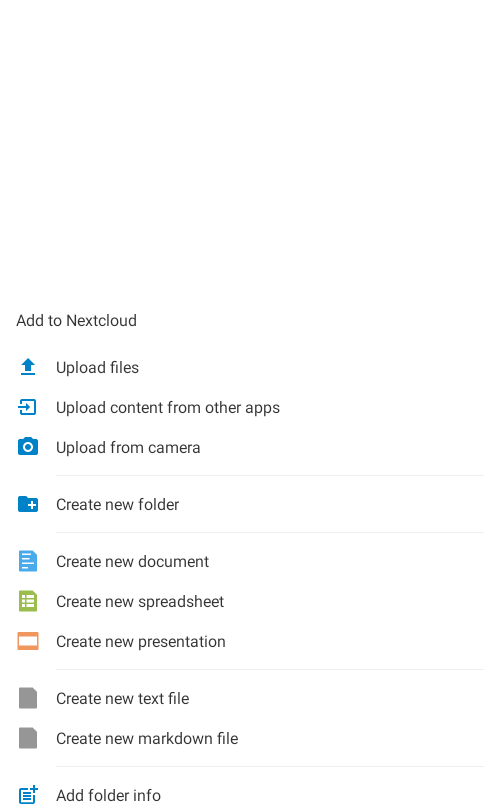
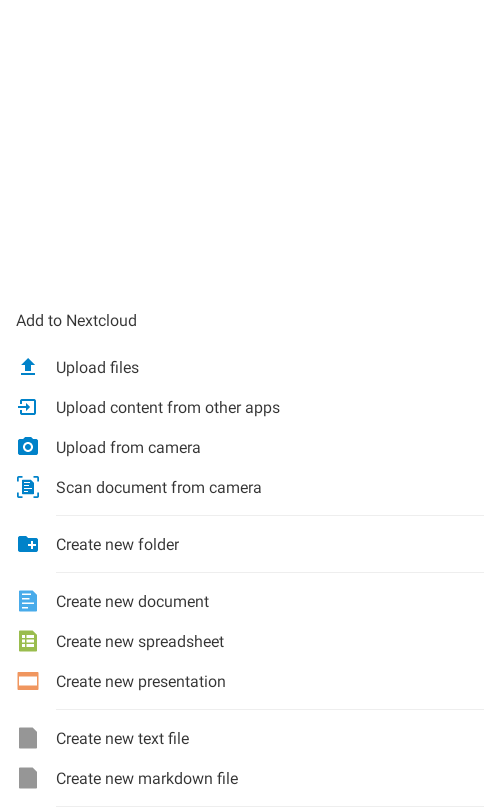
Add scan document feature

diff --git a/src/main/java/com/owncloud/android/ui/activity/AppScanActivity.kt b/src/main/java/com/owncloud/android/ui/activity/AppScanActivity.kt
@@ -1,0 +1,59 @@
+/*
+ *
+ * Nextcloud Android client application
+ *
+ * @author Tobias Kaminsky
+ * Copyright (C) 2022 Tobias Kaminsky
+ * Copyright (C) 2022 Nextcloud GmbH
+ *
+ * This program is free software: you can redistribute it and/or modify
+ * it under the terms of the GNU Affero General Public License as published by
+ * the Free Software Foundation, either version 3 of the License, or
+ * (at your option) any later version.
+ *
+ * This program is distributed in the hope that it will be useful,
+ * but WITHOUT ANY WARRANTY; without even the implied warranty of
+ * MERCHANTABILITY or FITNESS FOR A PARTICULAR PURPOSE. See the
+ * GNU Affero General Public License for more details.
+ *
+ * You should have received a copy of the GNU Affero General Public License
+ * along with this program. If not, see <https://www.gnu.org/licenses/>.
+ */
+
+package com.owncloud.android.ui.activity
+
+import android.app.Activity
+import android.content.Intent
+import android.os.Bundle
+import com.owncloud.android.R
+import com.owncloud.android.utils.DisplayUtils
+import com.zynksoftware.documentscanner.ScanActivity
+import com.zynksoftware.documentscanner.model.DocumentScannerErrorModel
+import com.zynksoftware.documentscanner.model.ScannerResults
+
+class AppScanActivity : ScanActivity() {
+    override fun onCreate(savedInstanceState: Bundle?) {
+        super.onCreate(savedInstanceState)
+        addFragmentContentLayout()
+    }
+
+    override fun onError(error: DocumentScannerErrorModel) {
+        DisplayUtils.showSnackMessage(this, R.string.error_starting_scan_doc)
+    }
+
+    override fun onSuccess(scannerResults: ScannerResults) {
+        val intent = Intent()
+
+        intent.putExtra(
+            "file",
+            scannerResults.transformedImageFile?.absolutePath ?: scannerResults.croppedImageFile?.absolutePath
+        )
+
+        setResult(Activity.RESULT_OK, intent)
+        finish()
+    }
+
+    override fun onClose() {
+        finish()
+    }
+}

diff --git a/src/main/java/com/owncloud/android/ui/helpers/FileOperationsHelper.java b/src/main/java/com/owncloud/android/ui/helpers/FileOperationsHelper.java
@@ -37,6 +37,7 @@ import android.content.Context;
 import android.content.Intent;
 import android.content.pm.PackageManager;
 import android.content.pm.ResolveInfo;
+import android.graphics.Bitmap;
 import android.net.Uri;
 import android.os.Build;
 import android.os.Environment;
@@ -68,6 +69,7 @@ import com.owncloud.android.lib.resources.shares.ShareType;
 import com.owncloud.android.lib.resources.status.OCCapability;
 import com.owncloud.android.operations.SynchronizeFileOperation;
 import com.owncloud.android.services.OperationsService;
+import com.owncloud.android.ui.activity.AppScanActivity;
 import com.owncloud.android.ui.activity.ConflictsResolveActivity;
 import com.owncloud.android.ui.activity.ExternalSiteWebView;
 import com.owncloud.android.ui.activity.FileActivity;
@@ -84,6 +86,7 @@ import com.owncloud.android.utils.DisplayUtils;
 import com.owncloud.android.utils.FileStorageUtils;
 import com.owncloud.android.utils.PermissionUtil;
 import com.owncloud.android.utils.UriUtils;
+import com.zynksoftware.documentscanner.ui.DocumentScanner;
 
 import org.greenrobot.eventbus.EventBus;
 
@@ -92,7 +95,7 @@ import java.io.File;
 import java.io.FileInputStream;
 import java.io.IOException;
 import java.io.InputStreamReader;
-import java.nio.charset.Charset;
+import java.nio.charset.StandardCharsets;
 import java.text.SimpleDateFormat;
 import java.util.ArrayList;
 import java.util.Arrays;
@@ -123,9 +126,9 @@ public class FileOperationsHelper {
     private static final String FILE_EXTENSION_WEBLOC = "webloc";
     public static final int SINGLE_LINK_SIZE = 1;
 
-    private FileActivity fileActivity;
-    private CurrentAccountProvider currentAccount;
-    private ConnectivityService connectivityService;
+    private final FileActivity fileActivity;
+    private final CurrentAccountProvider currentAccount;
+    private final ConnectivityService connectivityService;
 
     /// Identifier of operation in progress which result shouldn't be lost
     private long mWaitingForOpId = Long.MAX_VALUE;
@@ -145,7 +148,7 @@ public class FileOperationsHelper {
         InputStreamReader fr = null;
         BufferedReader br = null;
         try {
-            fr = new InputStreamReader(new FileInputStream(storagePath), Charset.forName("UTF-8"));
+            fr = new InputStreamReader(new FileInputStream(storagePath), StandardCharsets.UTF_8);
             br = new BufferedReader(fr);
 
             String line;
@@ -1069,6 +1072,19 @@ public class FileOperationsHelper {
             }
         } else {
             DisplayUtils.showSnackMessage(activity, "No Camera found");
+        }
+    }
+
+    public void scanFromCamera(Activity activity, int requestCode) {
+        DocumentScanner.Configuration configuration = new DocumentScanner.Configuration();
+        configuration.setImageType(Bitmap.CompressFormat.PNG);
+        DocumentScanner.INSTANCE.init(activity, configuration);
+
+        Intent scanIntent = new Intent(activity, AppScanActivity.class);
+        if (PermissionUtil.checkSelfPermission(activity, Manifest.permission.CAMERA)) {
+            activity.startActivityForResult(scanIntent, requestCode);
+        } else {
+            PermissionUtil.requestCameraPermission(activity);
         }
     }
 

diff --git a/src/main/java/com/owncloud/android/ui/activity/FileDisplayActivity.java b/src/main/java/com/owncloud/android/ui/activity/FileDisplayActivity.java
@@ -192,6 +192,7 @@ public class FileDisplayActivity extends FileActivity
     public static final int REQUEST_CODE__MOVE_FILES = REQUEST_CODE__LAST_SHARED + 3;
     public static final int REQUEST_CODE__COPY_FILES = REQUEST_CODE__LAST_SHARED + 4;
     public static final int REQUEST_CODE__UPLOAD_FROM_CAMERA = REQUEST_CODE__LAST_SHARED + 5;
+    public static final int REQUEST_CODE__UPLOAD_SCAN_DOC_FROM_CAMERA = REQUEST_CODE__LAST_SHARED + 6;
 
     protected static final long DELAY_TO_REQUEST_REFRESH_OPERATION_LATER = DELAY_TO_REQUEST_OPERATIONS_LATER + 350;
 
@@ -916,6 +917,35 @@ public class FileDisplayActivity extends FileActivity
                     }
                 }
             }, new String[]{FileOperationsHelper.createImageFile(getActivity()).getAbsolutePath()}).execute();
+        } else if (requestCode == REQUEST_CODE__UPLOAD_SCAN_DOC_FROM_CAMERA &&
+            (resultCode == RESULT_OK || resultCode == UploadFilesActivity.RESULT_OK_AND_DELETE)) {
+            Uri fileUri = Uri.parse(data.getStringExtra("file"));
+
+            new CheckAvailableSpaceTask(new CheckAvailableSpaceTask.CheckAvailableSpaceListener() {
+                @Override
+                public void onCheckAvailableSpaceStart() {
+                    Log_OC.d(this, "onCheckAvailableSpaceStart");
+                }
+
+                @Override
+                public void onCheckAvailableSpaceFinish(boolean hasEnoughSpaceAvailable, String... filesToUpload) {
+                    Log_OC.d(this, "onCheckAvailableSpaceFinish");
+
+                    if (hasEnoughSpaceAvailable) {
+                        File file = new File(filesToUpload[0]);
+                        File renamedFile = new File(file.getParent() + PATH_SEPARATOR + FileOperationsHelper.getCapturedImageName());
+
+                        if (!file.renameTo(renamedFile)) {
+                            DisplayUtils.showSnackMessage(getActivity(), "Fail to upload taken image!");
+                            return;
+                        }
+
+                        requestUploadOfFilesFromFileSystem(renamedFile.getParentFile().getAbsolutePath(),
+                                                           new String[]{renamedFile.getAbsolutePath()},
+                                                           FileUploader.LOCAL_BEHAVIOUR_DELETE);
+                    }
+                }
+            }, new String[]{fileUri.getPath()}).execute();
         } else if (requestCode == REQUEST_CODE__MOVE_FILES && resultCode == RESULT_OK) {
             exitSelectionMode();
             final Intent fData = data;

diff --git a/src/main/java/com/owncloud/android/ui/fragment/OCFileListFragment.java b/src/main/java/com/owncloud/android/ui/fragment/OCFileListFragment.java
@@ -42,6 +42,7 @@ import android.view.View;
 import android.view.ViewGroup;
 import android.widget.AbsListView;
 import android.widget.PopupMenu;
+import android.widget.Toast;
 
 import com.google.android.material.appbar.AppBarLayout;
 import com.google.android.material.behavior.HideBottomViewOnScrollBehavior;
@@ -475,6 +476,21 @@ public class OCFileListFragment extends ExtendedListFragment implements
                 .uploadFromCamera(fileDisplayActivity, FileDisplayActivity.REQUEST_CODE__UPLOAD_FROM_CAMERA);
         } else {
             DisplayUtils.showSnackMessage(getView(), getString(R.string.error_starting_direct_camera_upload));
+        }
+    }
+
+    @Override
+    public void scanDocUpload() {
+        FileDisplayActivity fileDisplayActivity = (FileDisplayActivity) getActivity();
+
+        if (fileDisplayActivity != null) {
+            fileDisplayActivity.getFileOperationsHelper()
+                .scanFromCamera(fileDisplayActivity, FileDisplayActivity.REQUEST_CODE__UPLOAD_SCAN_DOC_FROM_CAMERA);
+        } else {
+            Toast.makeText(getContext(), 
+                           getString(R.string.error_starting_direct_camera_upload), 
+                           Toast.LENGTH_SHORT)
+                .show();
         }
     }
 

diff --git a/src/main/java/com/owncloud/android/ui/activity/UploadFilesActivity.java b/src/main/java/com/owncloud/android/ui/activity/UploadFilesActivity.java
@@ -499,7 +499,8 @@ public class UploadFilesActivity extends DrawerActivity implements LocalFileList
             // return the list of files (success)
             Intent data = new Intent();
 
-            if (requestCode == FileDisplayActivity.REQUEST_CODE__UPLOAD_FROM_CAMERA) {
+            if (requestCode == FileDisplayActivity.REQUEST_CODE__UPLOAD_FROM_CAMERA ||
+                requestCode == FileDisplayActivity.REQUEST_CODE__UPLOAD_SCAN_DOC_FROM_CAMERA) {
                 data.putExtra(EXTRA_CHOSEN_FILES, new String[]{filesToUpload[0]});
                 setResult(RESULT_OK_AND_DELETE, data);
 

diff --git a/src/main/java/com/owncloud/android/ui/fragment/OCFileListBottomSheetDialog.java b/src/main/java/com/owncloud/android/ui/fragment/OCFileListBottomSheetDialog.java
@@ -183,6 +183,11 @@ public class OCFileListBottomSheetDialog extends BottomSheetDialog {
             dismiss();
         });
 
+        binding.menuScanDocUpload.setOnClickListener(v -> {
+            actions.scanDocUpload();
+            dismiss();
+        });
+
         binding.menuUploadFiles.setOnClickListener(v -> {
             actions.uploadFiles();
             dismiss();

diff --git a/src/main/java/com/owncloud/android/ui/fragment/OCFileListBottomSheetActions.java b/src/main/java/com/owncloud/android/ui/fragment/OCFileListBottomSheetActions.java
@@ -63,6 +63,11 @@ public interface OCFileListBottomSheetActions {
     void directCameraUpload();
 
     /**
+     * offers scanning document upload to the current folder.
+     */
+    void scanDocUpload();
+
+    /**
      * open template selection for creator @link Creator
      */
     void showTemplate(Creator creator, String headline);

diff --git a/src/androidTest/java/com/owncloud/android/ui/dialog/DialogFragmentIT.java b/src/androidTest/java/com/owncloud/android/ui/dialog/DialogFragmentIT.java
@@ -335,6 +335,11 @@ public class DialogFragmentIT extends AbstractIT {
             }
 
             @Override
+            public void scanDocUpload() {
+                
+            }
+
+            @Override
             public void showTemplate(Creator creator, String headline) {
 
             }
